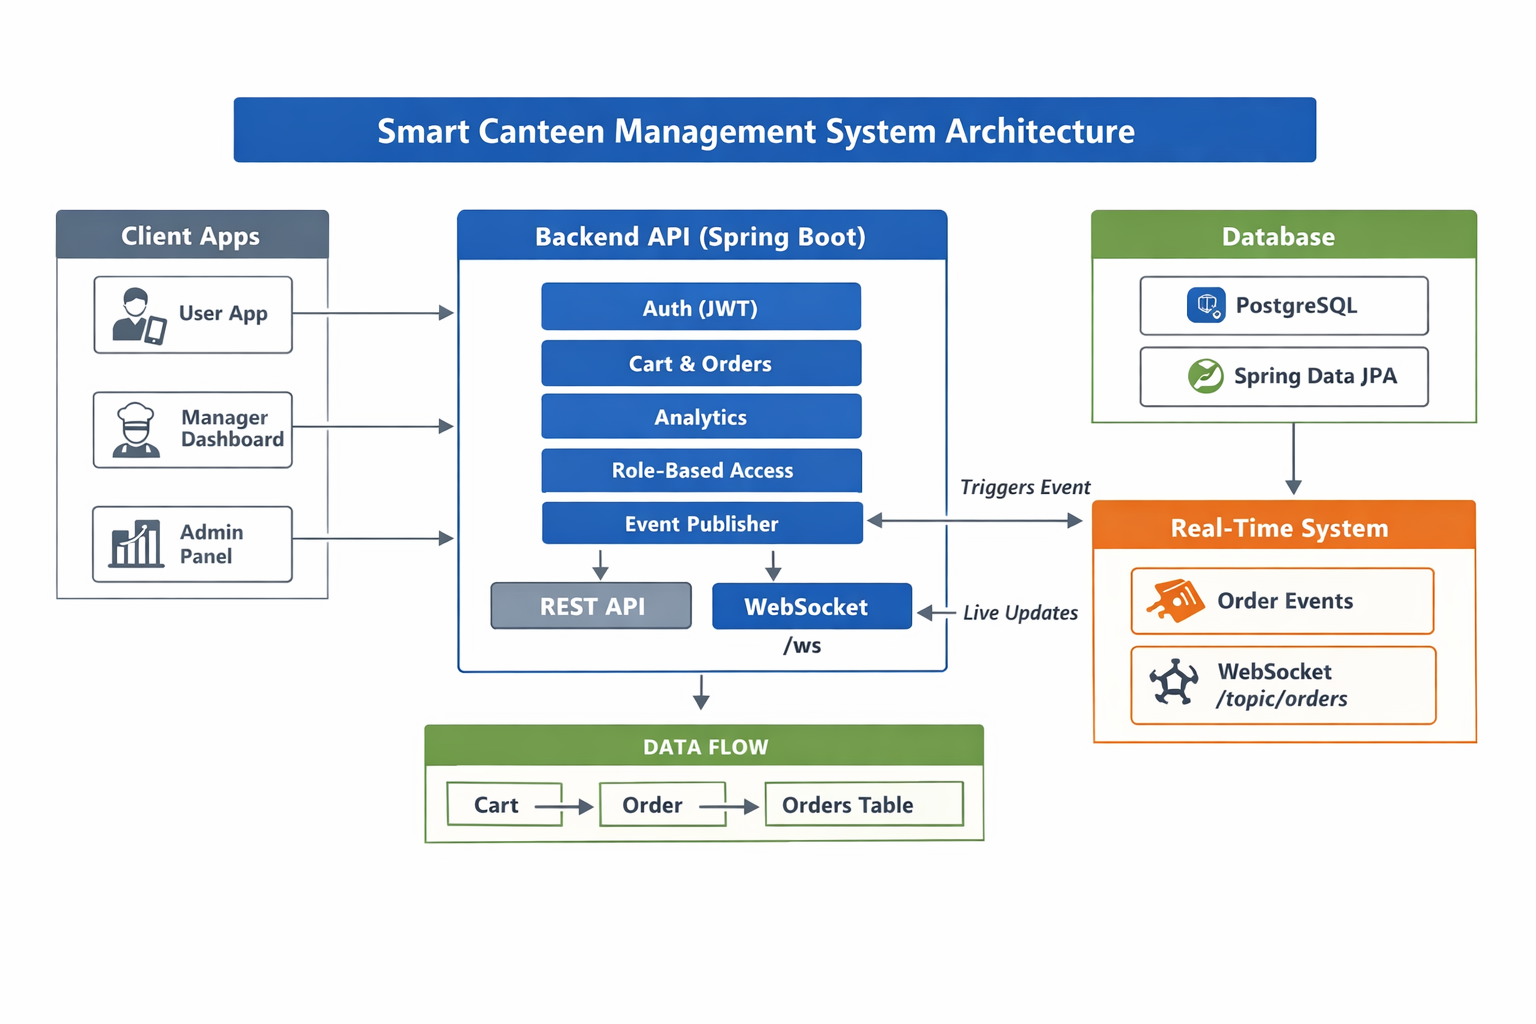
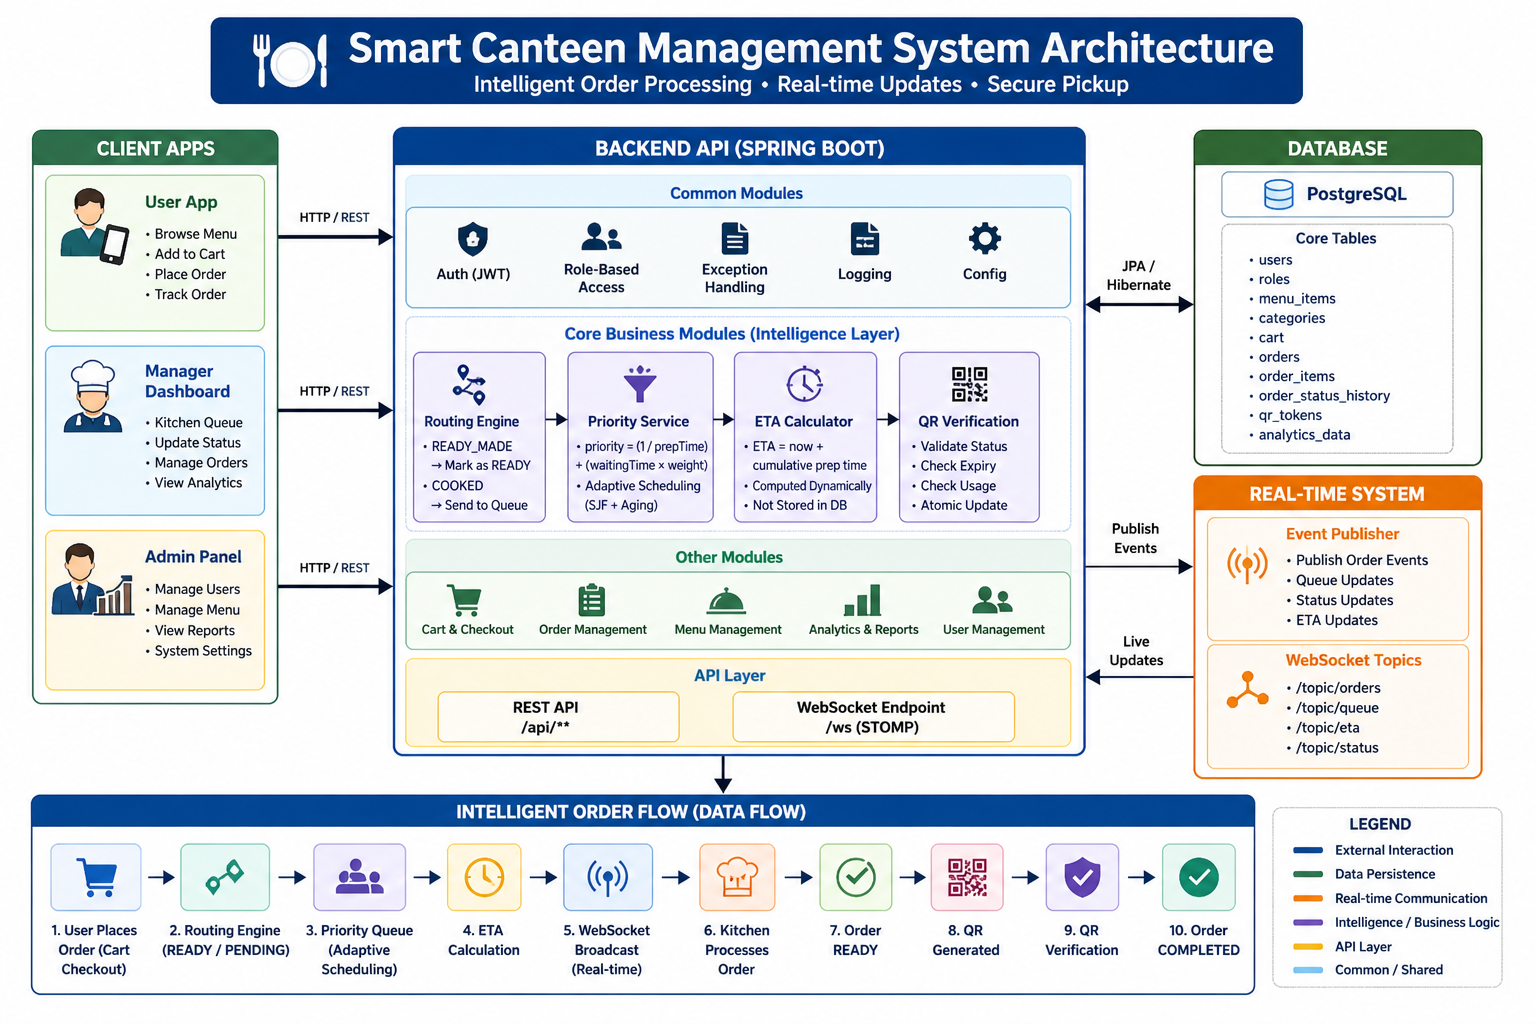
feat(priority): implement adaptive queue-aware scheduling with ETA refinement
- refactor PriorityService to support queue-load-based adaptive weighting
- add capped waiting time to prevent priority explosion
- centralize priority calculation logic
- update kitchen queue builder to pass queueLoad
- remove duplicated PREPARING boost from service layer
- ensure priority-based sorting with stable ordering
- maintain dynamic ETA computation based on cumulative prep time

enhances system from static scheduling to adaptive, context-aware prioritization

diff --git a/src/main/java/com/smartcanteen/backend/service/impl/OrderServiceImpl.java b/src/main/java/com/smartcanteen/backend/service/impl/OrderServiceImpl.java
@@ -523,21 +523,20 @@ public class OrderServiceImpl implements OrderService {
 
         LocalDateTime nowUtc = LocalDateTime.now(ZoneOffset.UTC);
 
+        // queue load
+        int queueLoad = kitchenVisibleOrders.size();
+
         List<Order> sortedOrders = kitchenVisibleOrders.stream()
                 .peek(order -> {
-                    double basePriority = priorityService.calculatePriority(order);
+                    // UPDATED SERVICE
+                    double priority = priorityService.calculatePriority(order, queueLoad);
 
-                    // PREPARING BOOST
-                    if (order.getStatus() == OrderStatus.PREPARING) {
-                        basePriority += 0.5; // small boost
-                    }
-
-                    order.setPriorityScore(basePriority);
+                    order.setPriorityScore(priority);
                 })
                 .sorted(
                         Comparator.comparingDouble((Order order) -> order.getPriorityScore())
                                 .reversed()
-                                .thenComparing(Order::getCreatedAt) // optional stability
+                                .thenComparing(Order::getCreatedAt)
                 )
                 .toList();
 
@@ -567,7 +566,10 @@ public class OrderServiceImpl implements OrderService {
                     : order.getTotalPrepTime();
 
             cumulativePrepMinutes += prepTime;
+
+            // ETA = completion time (correct approach)
             dto.setEstimatedReadyAt(nowUtc.plusMinutes(cumulativePrepMinutes));
+
             position++;
         }
 

diff --git a/src/main/java/com/smartcanteen/backend/service/PriorityService.java b/src/main/java/com/smartcanteen/backend/service/PriorityService.java
@@ -1,6 +1,7 @@
 package com.smartcanteen.backend.service;
 
 import com.smartcanteen.backend.entity.Order;
+import com.smartcanteen.backend.entity.OrderStatus;
 import org.springframework.stereotype.Service;
 
 import java.time.Duration;
@@ -10,7 +11,7 @@ import java.time.ZoneOffset;
 @Service
 public class PriorityService {
 
-    public double calculatePriority(Order order) {
+    public double calculatePriority(Order order, int queueLoad) {
         if (order == null) {
             throw new IllegalArgumentException("Order cannot be null");
         }
@@ -22,14 +23,25 @@ public class PriorityService {
                 ? 0
                 : Math.max(0, Duration.between(createdAt, nowUtc).toMinutes());
 
+        // Prevent explosion
+        long cappedWaiting = Math.min(waitingMinutes, 60);
+
         int totalPrepTime = order.getTotalPrepTime() == null || order.getTotalPrepTime() <= 0
                 ? 1
                 : order.getTotalPrepTime();
 
-        double prepFactor = 1.0 / totalPrepTime;
+        // Adaptive weights
+        double waitingWeight = queueLoad >= 10 ? 0.3 : 0.7;
+        double prepWeight = queueLoad >= 10 ? 2.0 : 1.0;
 
-        double waitingWeight = 0.5;
+        double prepFactor = prepWeight / totalPrepTime;
 
-        return prepFactor + (waitingMinutes * waitingWeight);
+        // Status boost
+        double statusBoost = 0;
+        if (order.getStatus() == OrderStatus.PREPARING) {
+            statusBoost = 0.5;
+        }
+
+        return prepFactor + (cappedWaiting * waitingWeight) + statusBoost;
     }
 }
